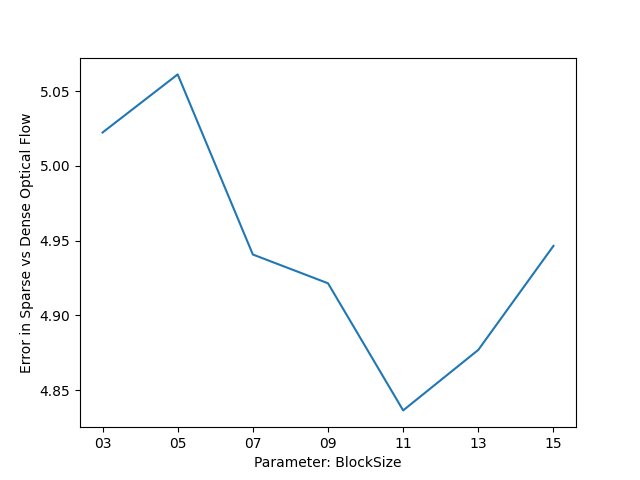
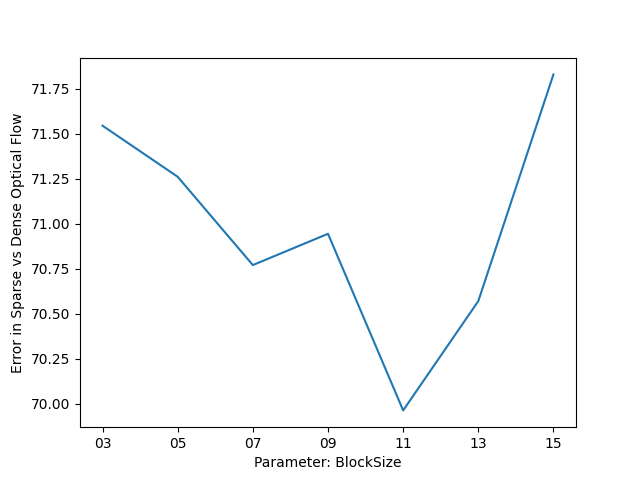
analyze m 3,ec

diff --git a/outputs/analyze-3.py b/outputs/analyze-3.py
@@ -1,0 +1,79 @@
+import os
+from matplotlib import pyplot as plt
+import numpy as np
+from scipy.signal import savgol_filter
+
+def divide_true( a, b ):
+    with np.errstate(divide='ignore', invalid='ignore'):
+        c = np.true_divide( a, b )
+        c[ ~ np.isfinite( c )] = 0  # -inf inf NaN
+    return c
+
+pntsArray = []
+origDynamic = list(map(float, open("./method_3/1/dynamic.out").read().split(",")))
+origQueue = list(map(float, open("./method_3/1/static.out").read().split(",")))
+d = []
+q = []
+t = []
+x = []
+for subdir, dirs, files in os.walk('method_3'):
+    ans = []
+    for file in files:
+        print(file)
+        if file == 'dynamic.out':
+            currentDynamic = list(map(float, open(os.path.join(subdir, file)).read().split(",")))
+            if (len(currentDynamic) > len(origDynamic)):
+                currentDynamic = currentDynamic[:len(origDynamic)]
+            else:
+                origDynamic = origDynamic[:len(currentDynamic)]
+            #ans += [np.divide(np.abs(np.subtract(currentDynamic,origDynamic))*100, origDynamic).mean()]
+            ans += [100*np.abs(divide_true(np.subtract(currentDynamic,origDynamic), origDynamic)).mean()]
+        elif file == 'static.out':
+            currentqueue = list(
+                map(float, open(os.path.join(subdir, file)).read().split(",")))
+            if (len(currentqueue) > len(origQueue)):
+                currentqueue = currentqueue[:len(origQueue)]
+            else:
+                origQueue = origQueue[:len(currentqueue)]
+            #ans += [np.divide(np.abs(np.subtract(currentqueue,origQueue))*100, origQueue).mean()]
+            ans += [100*np.abs(divide_true(np.subtract(currentqueue,origQueue), origQueue)).mean()]
+        elif file == 'timetaken.out':
+            x = float(open(os.path.join(subdir, file)).read())
+            ans += [int(subdir[subdir.index('/')+1:]), x]
+            # x = float(open(os.path.join(subdir, file)).read())
+            # #print("xx" + subdir[10:12])
+            # ans += [int(subdir[-2:]), x]
+            # #print(ans)
+            pntsArray += [ans]
+print(pntsArray)
+pntsArray.sort(key=lambda x : x[0])
+# x = []
+# y = []
+print(pntsArray)
+x = []
+y = []
+z = []
+w = []
+for i in pntsArray:
+    z += [i[2]]
+    y += [i[3]]
+    x += [i[0]]
+    w += [i[1]]
+plt.plot(x, z)
+plt.xlabel("Number of threads")
+plt.ylabel('% Error in Dynamic Density')
+#plt.show()
+plt.savefig("./method_3/dynamic error")
+plt.close()
+plt.plot(x, y)
+plt.xlabel("Number of threads")
+plt.ylabel('% Error in Queue Density')
+#plt.show()
+plt.savefig("./method_3/queue error")
+plt.close()
+plt.plot(x, w)
+plt.xlabel("Number of threads")
+plt.ylabel('Execution time')
+#plt.show()
+plt.savefig("./method_3/time_taken")
+plt.close()

diff --git a/outputs/method_ec/analyze-ec.py b/outputs/method_ec/analyze-ec.py
@@ -1,0 +1,69 @@
+import os
+from matplotlib import pyplot as plt
+import numpy as np
+from scipy.signal import savgol_filter
+
+
+paths = ["BlockSize", "QualityLevel", "minDistance", "maxCorners"]
+for path in paths:
+    dict_ = {}
+    pntsArray = []
+    for subdir, dirs, files in os.walk(path):
+        ans = []
+        if (len(subdir) > len(path)): 
+            dict_[subdir[subdir.index('/')+1:]] =  []
+        for file in files:
+            #print(file)
+            if file == 'dynamic.out':
+                currentDynamic = list(map(float, open(os.path.join(subdir, file)).read().split(",")))
+                dict_[subdir[subdir.index('/')+1:]].append(currentDynamic)
+            elif file == 'sparse.out':
+                sparse = list(
+                    map(float, open(os.path.join(subdir, file)).read().split(",")))
+                dict_[subdir[subdir.index('/')+1:]].append(sparse)
+            elif file == 'timetaken.out':
+                x = float(open(os.path.join(subdir, file)).read())
+                ans += [int(subdir[subdir.index('/')+1:]), x]
+                # x = float(open(os.path.join(subdir, file)).read())
+                # #print("xx" + subdir[10:12])
+                # ans += [int(subdir[-2:]), x]
+                # #print(ans)
+                pntsArray += [ans]
+    
+    pntsArray.sort(key=lambda x : x[0])
+    # x = []
+    # y = []
+    x_ = []
+    y_ = []
+    for i in pntsArray:
+        x_ += [i[0]]
+        y_ += [i[1]]
+    #     y += [i[2]]
+    #     z += [i[3]]
+    x = []
+    y = []
+    keys = list(dict_.keys())
+    keys.sort(key = lambda x : int(x))
+    print(keys)
+    for keys in keys:
+        x.append(keys)
+        y.append(100 * np.abs(np.divide(
+            np.subtract(dict_[keys][0],dict_[keys][1]), dict_[keys][0]
+            )
+            ).mean())
+    print(x)
+    print(y)
+    print("A")
+
+    plt.plot(x, y)
+    plt.xlabel('Parameter: ' + path)
+    plt.ylabel('Error in Sparse vs Dense Optical Flow')
+    #plt.show()
+    plt.savefig("./" + path + "/"+"error_vs_"+path)
+    plt.close()
+    plt.plot(x_, y_)
+    plt.xlabel('Parameter: ' + path)
+    plt.ylabel('Execution time')
+    #plt.show()
+    plt.savefig("./" + path + "/"+"time_vs_"+path)
+    plt.close()
